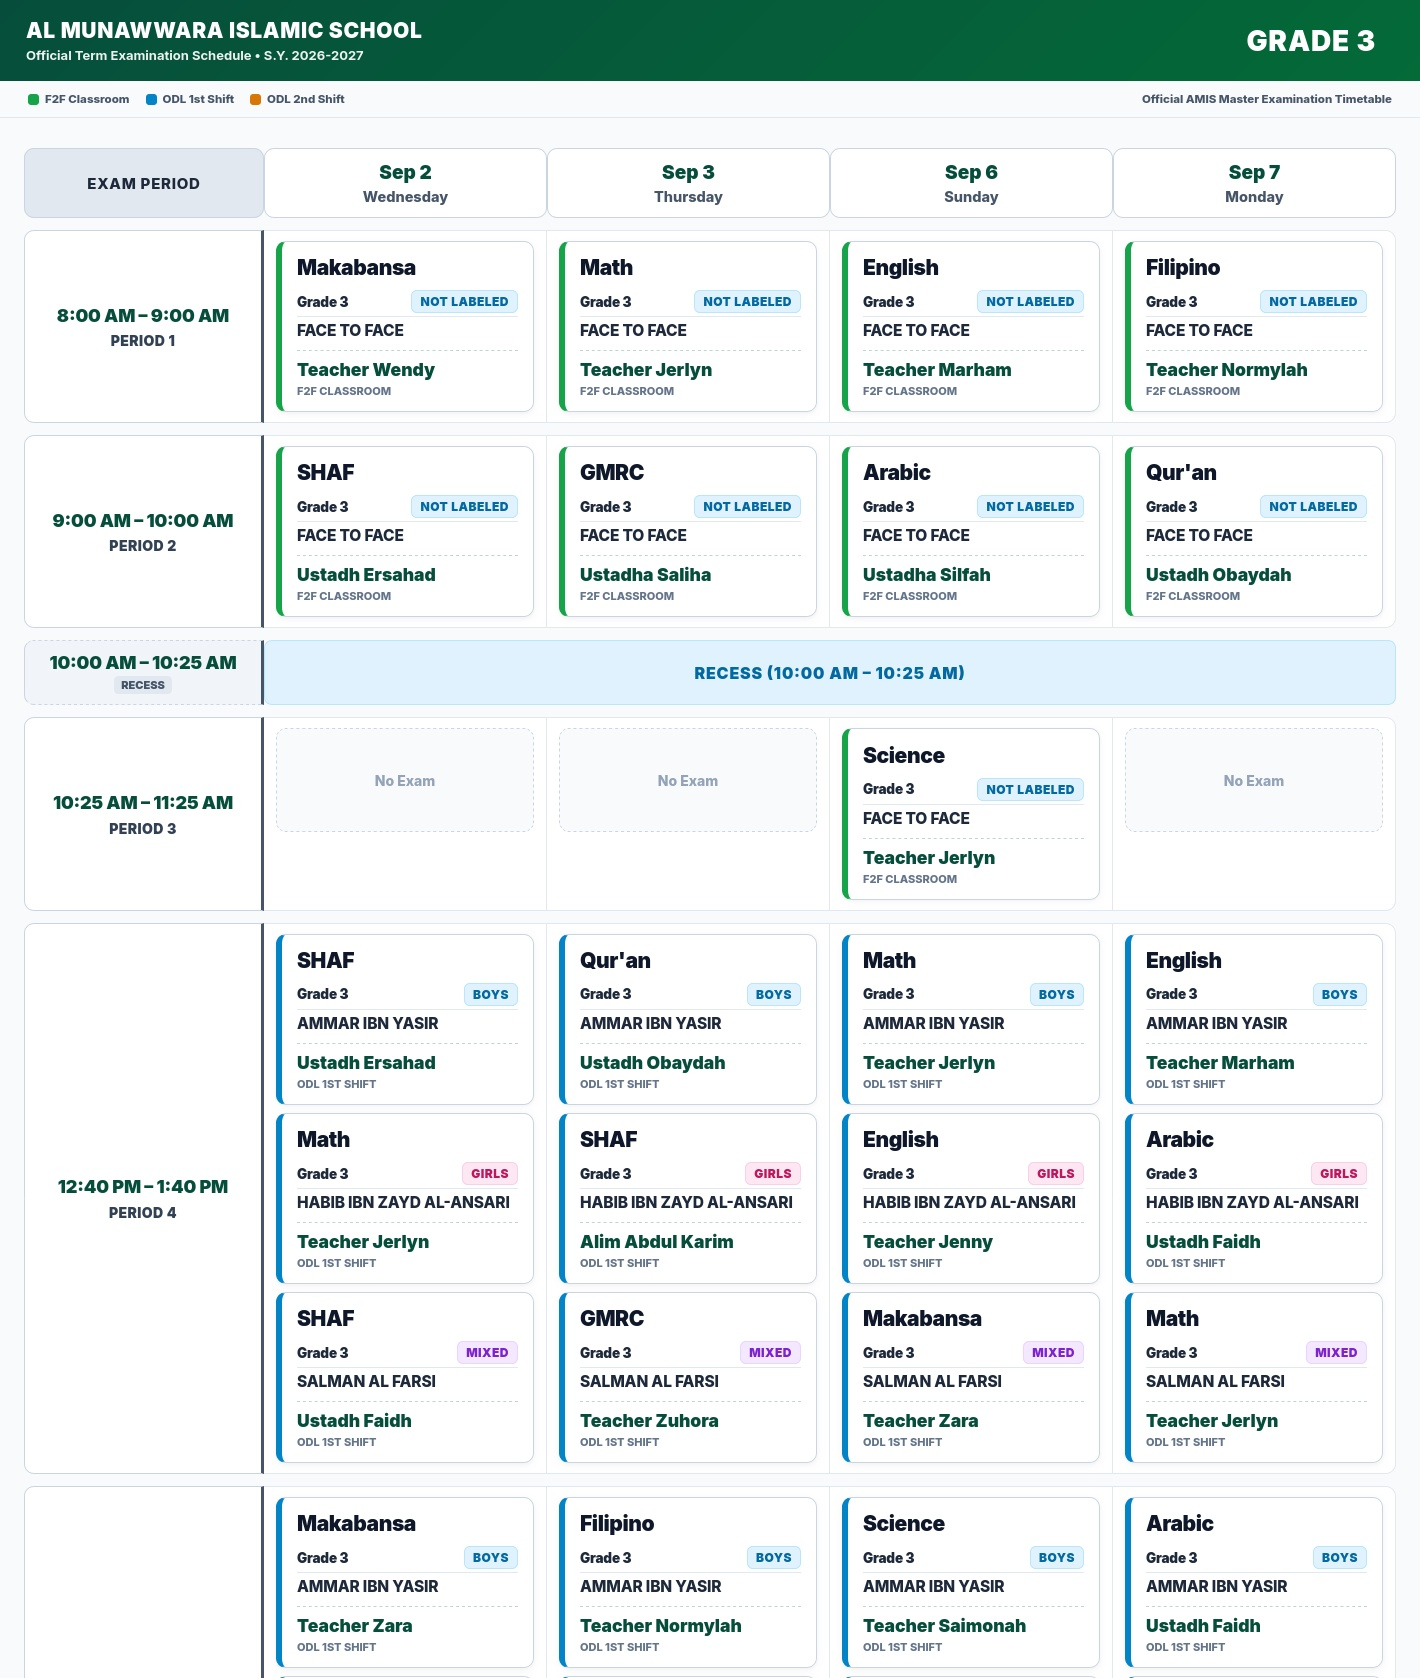
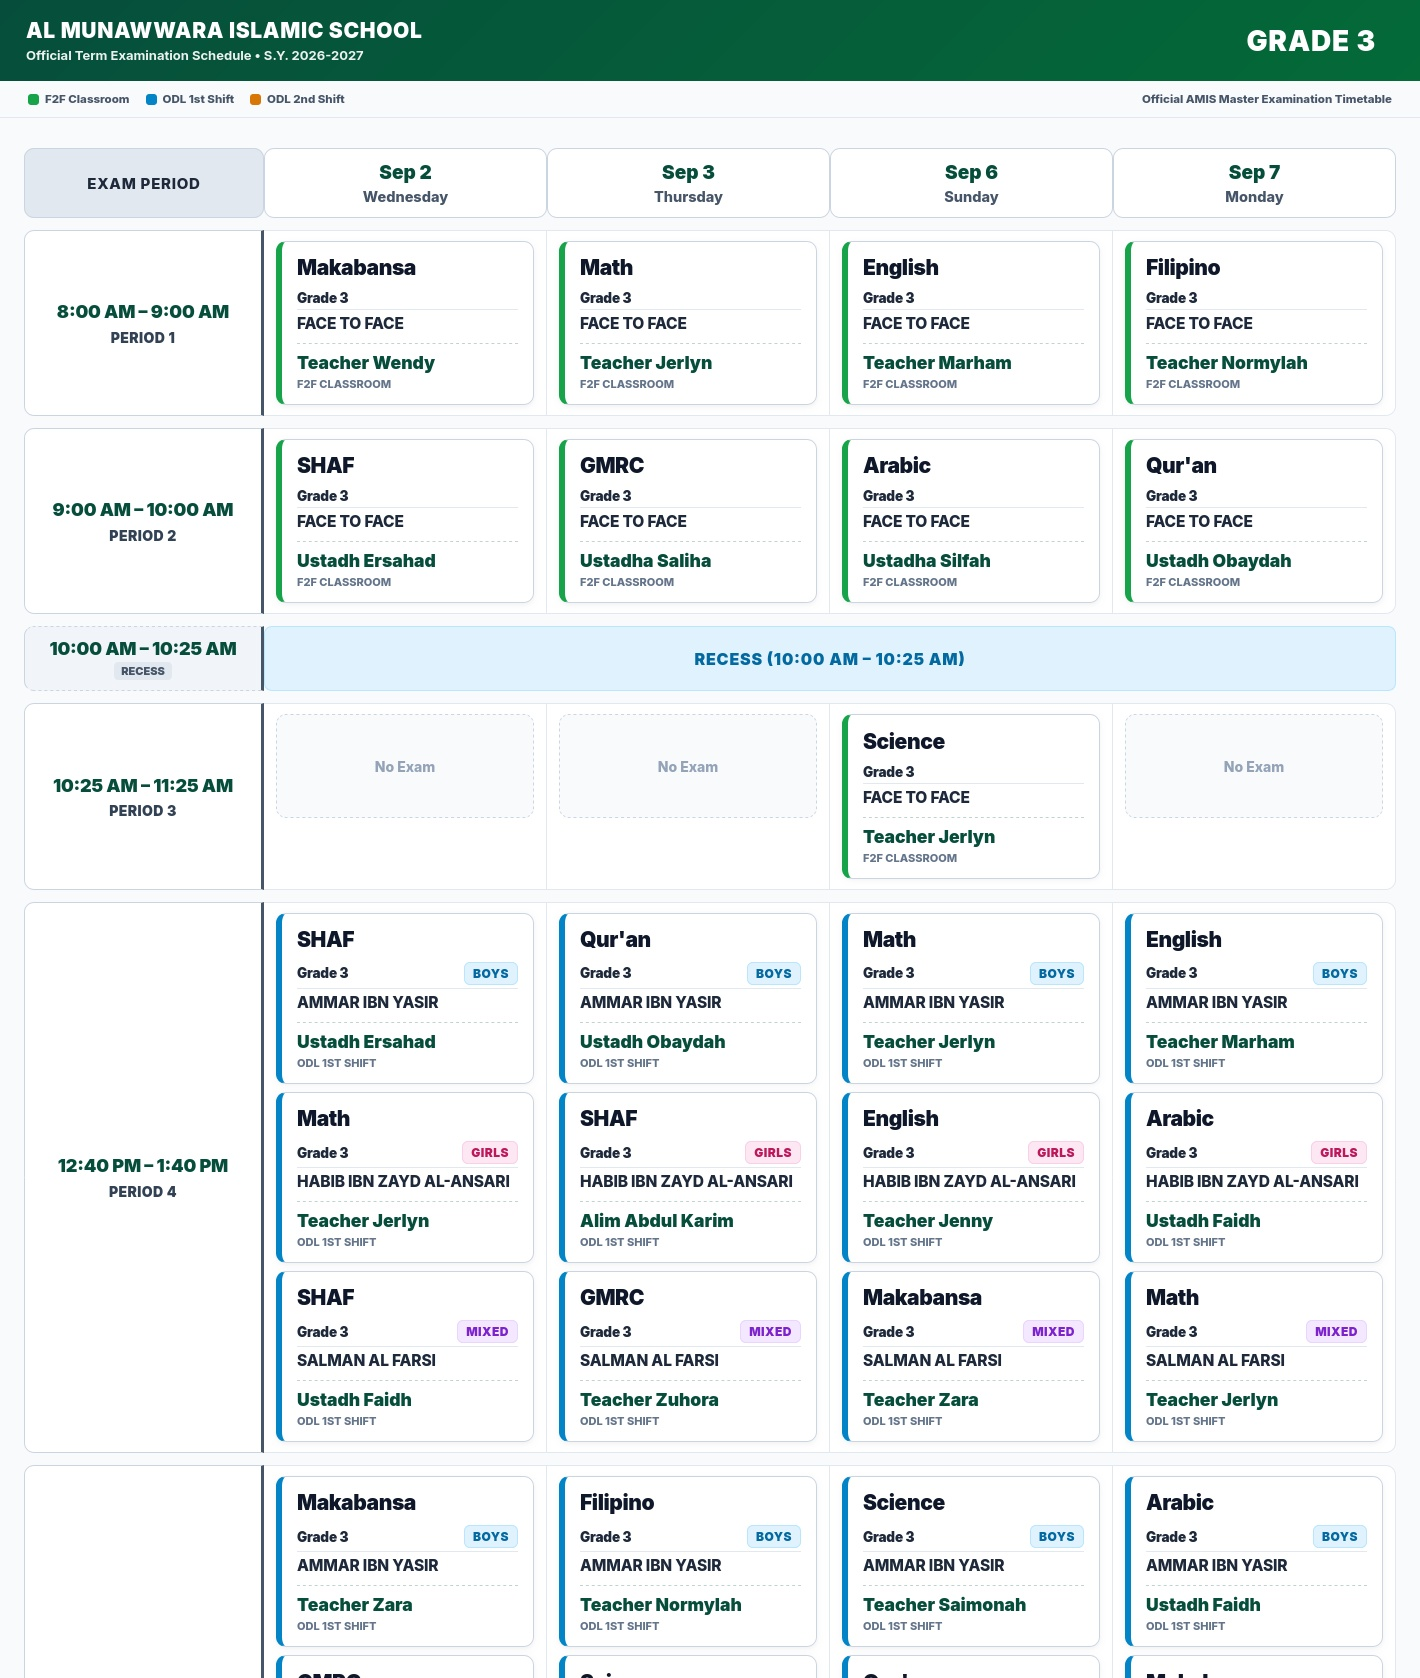
Hide NOT LABELED badges completely from exam cards and filter dropdown; show badges strictly for BOYS, GIRLS, and MIXED

diff --git a/index.html b/index.html
@@ -1146,7 +1146,6 @@
             <option value="BOYS">Boys</option>
             <option value="GIRLS">Girls</option>
             <option value="MIXED">Mixed</option>
-            <option value="NOT LABELED">Not Labeled</option>
           </select>
         </div>
         <div class="filter-control">
@@ -1342,21 +1341,15 @@
     }
 
     function getGenderBadge(ex) {
-      let g = ex.gender || '';
-      if (!g || g === 'NOT ENCODED') {
-        let sec = String(ex.section || '').toUpperCase();
-        if (sec.includes('BOY')) g = 'BOYS';
-        else if (sec.includes('GIRL')) g = 'GIRLS';
-        else if (sec.includes('MIX')) g = 'MIXED';
-        else g = 'NOT ENCODED';
+      let g = (ex.gender || '').toUpperCase().trim();
+      if (g === 'BOYS') {
+        return `<span class="gender-pill pill-boys">BOYS</span>`;
+      } else if (g === 'GIRLS') {
+        return `<span class="gender-pill pill-girls">GIRLS</span>`;
+      } else if (g === 'MIXED' || g === 'MIX') {
+        return `<span class="gender-pill pill-mixed">MIXED</span>`;
       }
-      
-      let cls = 'pill-boys';
-      if (g.toUpperCase().includes('GIRL')) cls = 'pill-girls';
-      else if (g.toUpperCase().includes('MIX')) cls = 'pill-mixed';
-      else if (g.toUpperCase() === 'NOT ENCODED') cls = 'pill-not-encoded';
-      
-      return `<span class="gender-pill ${cls}">${g}</span>`;
+      return '';
     }
 
     function initApp() {

diff --git a/grade-calendar-view.html b/grade-calendar-view.html
@@ -780,18 +780,15 @@ body.no-navbar {
   }
 
   function getGenderPillHtml(ex) {
-    let g = ex.gender || '';
-    if (!g) {
-      let sec = String(ex.section || '').toLowerCase();
-      if (sec.includes('boy')) g = 'Boys';
-      else if (sec.includes('girl')) g = 'Girls';
-      else if (sec.includes('mix')) g = 'Mix';
+    let g = (ex.gender || '').toUpperCase().trim();
+    if (g === 'BOYS') {
+      return `<span class="pill-gender pill-boys">BOYS</span>`;
+    } else if (g === 'GIRLS') {
+      return `<span class="pill-gender pill-girls">GIRLS</span>`;
+    } else if (g === 'MIXED' || g === 'MIX') {
+      return `<span class="pill-gender pill-mix">MIXED</span>`;
     }
-    if (!g) return '';
-    let cls = 'pill-boys';
-    if (g.toLowerCase().includes('girl')) cls = 'pill-girls';
-    else if (g.toLowerCase().includes('mix')) cls = 'pill-mix';
-    return `<span class="pill-gender ${cls}">${esc(g)}</span>`;
+    return '';
   }
 
   function formatShortDate(dStr) {

diff --git a/assemble_index.py b/assemble_index.py
@@ -1157,7 +1157,6 @@ html_content = f"""<!DOCTYPE html>
             <option value="BOYS">Boys</option>
             <option value="GIRLS">Girls</option>
             <option value="MIXED">Mixed</option>
-            <option value="NOT LABELED">Not Labeled</option>
           </select>
         </div>
         <div class="filter-control">
@@ -1353,21 +1352,15 @@ html_content = f"""<!DOCTYPE html>
     }}
 
     function getGenderBadge(ex) {{
-      let g = ex.gender || '';
-      if (!g || g === 'NOT ENCODED') {{
-        let sec = String(ex.section || '').toUpperCase();
-        if (sec.includes('BOY')) g = 'BOYS';
-        else if (sec.includes('GIRL')) g = 'GIRLS';
-        else if (sec.includes('MIX')) g = 'MIXED';
-        else g = 'NOT ENCODED';
+      let g = (ex.gender || '').toUpperCase().trim();
+      if (g === 'BOYS') {{
+        return `<span class="gender-pill pill-boys">BOYS</span>`;
+      }} else if (g === 'GIRLS') {{
+        return `<span class="gender-pill pill-girls">GIRLS</span>`;
+      }} else if (g === 'MIXED' || g === 'MIX') {{
+        return `<span class="gender-pill pill-mixed">MIXED</span>`;
       }}
-      
-      let cls = 'pill-boys';
-      if (g.toUpperCase().includes('GIRL')) cls = 'pill-girls';
-      else if (g.toUpperCase().includes('MIX')) cls = 'pill-mixed';
-      else if (g.toUpperCase() === 'NOT ENCODED') cls = 'pill-not-encoded';
-      
-      return `<span class="gender-pill ${{cls}}">${{g}}</span>`;
+      return '';
     }}
 
     function initApp() {{
